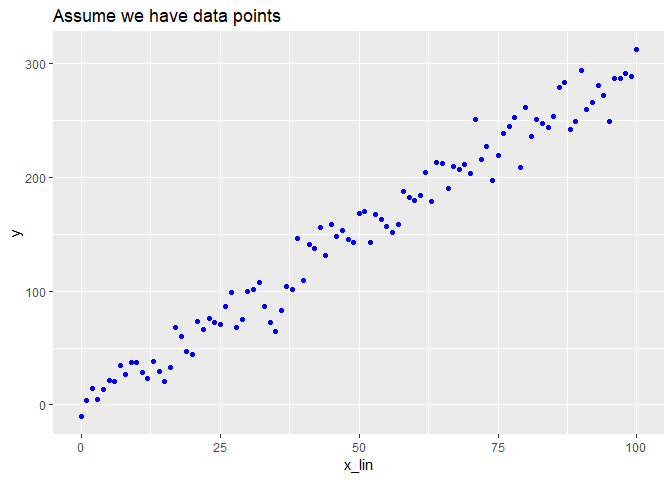
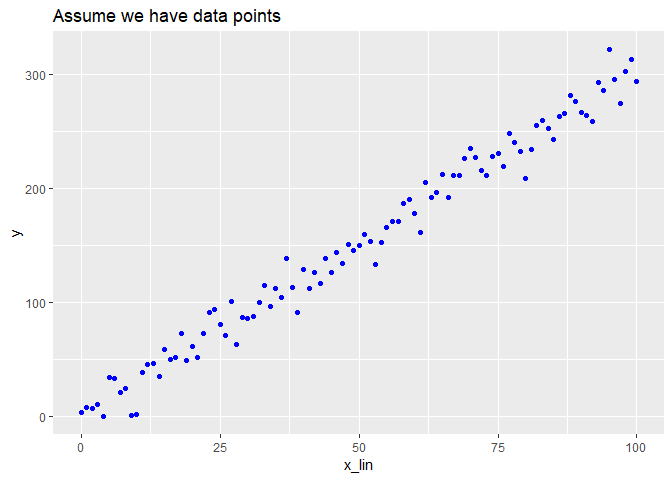
Day001

diff --git a/Homework/Day001.md b/Homework/Day001.md
@@ -70,8 +70,7 @@ y <- (x_lin + rnorm(101) * 5) * w + b
 
 ggplot()+
   geom_point(aes(x_lin,y),color="blue")+
-  labs(title="Assume we have data points")+
-  geom_smooth(method='lm',se=FALSE,col="red")
+  labs(title="Assume we have data points")
 ```
 
 ![](Day001_files/figure-markdown_github/unnamed-chunk-3-1.png)
@@ -95,5 +94,5 @@ str2 <- paste("The Mean absolute error is", sprintf("%.3f",(MAE(y,y_hat))))
 cat(str1,str2, sep ="\n")
 ```
 
-    ## The Mean squared error is 213.100
-    ## The Mean absolute error is 11.659
+    ## The Mean squared error is 159.351
+    ## The Mean absolute error is 9.807
